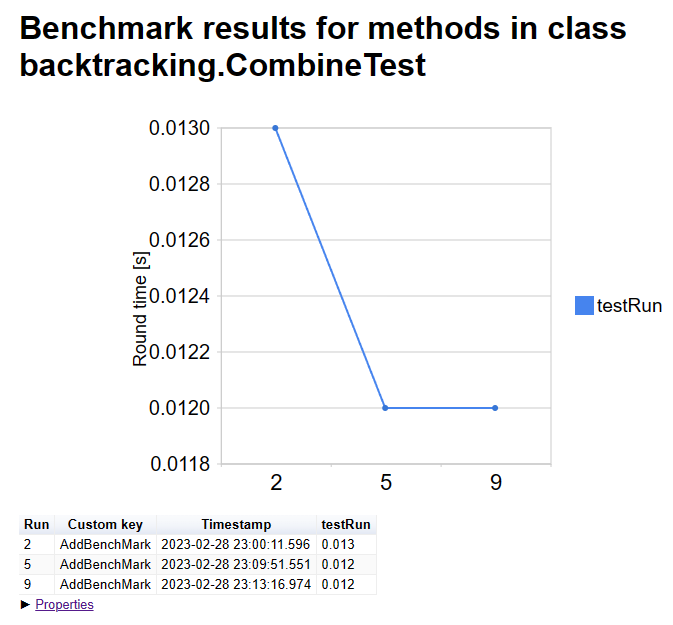
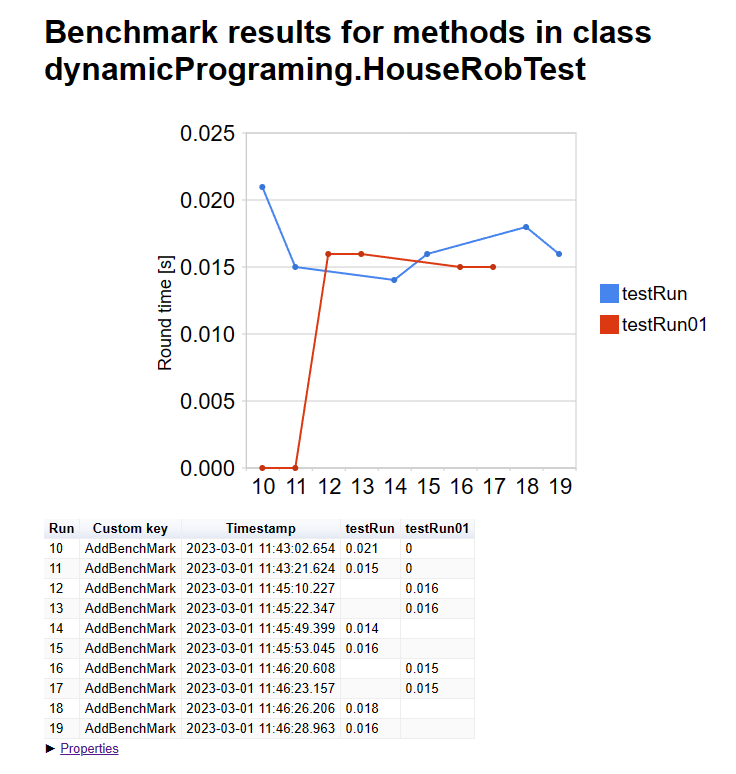
:pencil: [DP] compare > house rob test

Changed region(s): [[0.0312, 0.0, 0.9985, 1.0]]

diff --git a/charts/dynamicPrograming.HouseRobTest.html b/charts/dynamicPrograming.HouseRobTest.html
@@ -1,0 +1,118 @@
+<!DOCTYPE html PUBLIC "-//W3C//DTD XHTML 1.0 Strict//EN" "http://www.w3.org/TR/xhtml1/DTD/xhtml1-strict.dtd">
+<html xmlns="http://www.w3.org/1999/xhtml">
+  <head>
+    <meta http-equiv="content-type" content="text/html; charset=UTF-8"/>
+    <title>Benchmark results for methods in class dynamicPrograming.HouseRobTest</title>
+
+    <script type="text/javascript" src="http://www.google.com/jsapi"></script>
+    <script type="text/javascript">
+      google.load("jquery", "1.4.2");
+      google.load('visualization', '1', {packages: ['linechart', 'table']});
+    </script>
+
+    <style type="text/css">
+        #content {
+          width: 800px ;
+          margin-left: auto;
+          margin-right: auto;
+        }
+
+        #chart {
+          width: 600px;
+          height: 400px;
+          margin-left: auto;
+          margin-right: auto;
+          margin-bottom: 10px;
+          display: block;
+        }
+        
+        ul.expander {
+          display: inline;
+          margin-left: 0;
+          padding-left: 0;
+          font-size: .8em;
+        }
+
+        ul.expander li {
+          margin-left: 0;
+          list-style: none;
+          display: inline;
+        }
+
+        ul.expander li:before {
+          content: "\25BA\0020";  // 25B8
+        }
+
+        ul.expander li.expanded:before {
+          content: "\25BC\0020";  // 25BE
+        }
+    </style>
+
+    <script type="text/javascript">
+      var chart; 
+
+      function drawData(data, labelColumn) {
+        var labelColumns = [0, 1, 2];
+        labelColumns.splice(labelColumn, 1);
+
+        var view = new google.visualization.DataView(data);
+        view.hideColumns(labelColumns);
+
+        chart.draw(view, {
+            titleY: "Round time [s]",
+            
+        });
+      }
+
+      function visualize(jsonData, className) {
+        var data = new google.visualization.DataTable(jsonData);
+        
+        var table = new google.visualization.Table(document.getElementById('raw-data'));
+        table.draw(data, {
+            sort: "event",
+        });
+        
+        google.visualization.events.addListener(table, 'sort',
+         function(event) {
+           if (event.column >= 0 && event.column <= 2) {
+              drawData(data, event.column);
+           }
+         }
+        );
+        
+        chart = new google.visualization.LineChart(document.getElementById('chart'));
+        drawData(data, 00);
+      }
+
+      var data;
+      function receiveJsonpData(jsonpData) {
+        data = jsonpData;
+      }
+
+      google.setOnLoadCallback(function() {
+          visualize(data, "dynamicPrograming.HouseRobTest");
+
+          $("#properties").click(function () {
+              $(this).toggleClass("expanded"); 
+              $("#proplist").slideToggle();
+          });
+      });
+    </script>
+  </head>
+
+  <body style="font-family: Arial; margin: 30px;">
+    <div id="content">
+        <h1>Benchmark results for methods in class dynamicPrograming.HouseRobTest</h1>
+
+        <div id="chart" ></div>
+        <div id="raw-data"></div>
+
+        <div>
+            <ul class="expander"><li id="properties"><a href="#">Properties</a></li></ul>
+            <pre id="proplist" style="display: none; background-color: #e0e0e0;">Shows historical runs: 20</pre>
+        </div>
+    </div>
+    
+    <script src="dynamicPrograming.HouseRobTest.jsonp"></script>
+  </body>
+</html>

diff --git a/charts/benchmark-lists.html b/charts/benchmark-lists.html
@@ -2,7 +2,7 @@
 <html xmlns="http://www.w3.org/1999/xhtml">
   <head>
     <meta http-equiv="content-type" content="text/html; charset=UTF-8"/>
-    <title>Benchmark results for methods in class backtracking.CombineTest</title>
+    <title>Benchmark results for methods in class dynamicPrograming.HouseRobTest</title>
 
     <script type="text/javascript" src="http://www.google.com/jsapi"></script>
     <script type="text/javascript">
@@ -103,7 +103,7 @@
       }
 
       google.setOnLoadCallback(function() {
-          visualize(data, "backtracking.CombineTest");
+          visualize(data, "dynamicPrograming.HouseRobTest");
 
           $("#properties").click(function () {
               $(this).toggleClass("expanded"); 
@@ -121,7 +121,7 @@
 
   <body style="font-family: Arial; margin: 30px;">
     <div id="content">
-      <h1>Benchmark results for methods in class backtracking.CombineTest</h1>
+      <h1>Benchmark results for methods in class dynamicPrograming.HouseRobTest</h1>
   
       <ul class="expander"><li id="orientation" class="expanded"><a href="#">Orientation</a></li></ul>
       <div id="chart" ></div>
@@ -133,8 +133,8 @@
   
       <div>
         <ul class="expander"><li id="properties"><a href="#">Properties</a></li></ul>
-        <pre id="proplist" style="display: none; background-color: #e0e0e0;">Run ID: 9
-Run timestamp: 2023-02-28 23:13:16.974
+        <pre id="proplist" style="display: none; background-color: #e0e0e0;">Run ID: 19
+Run timestamp: 2023-03-01 11:46:28.963
 JVM: 1.8.0_271-b09
 OS: amd64
 Custom key: AddBenchMark
